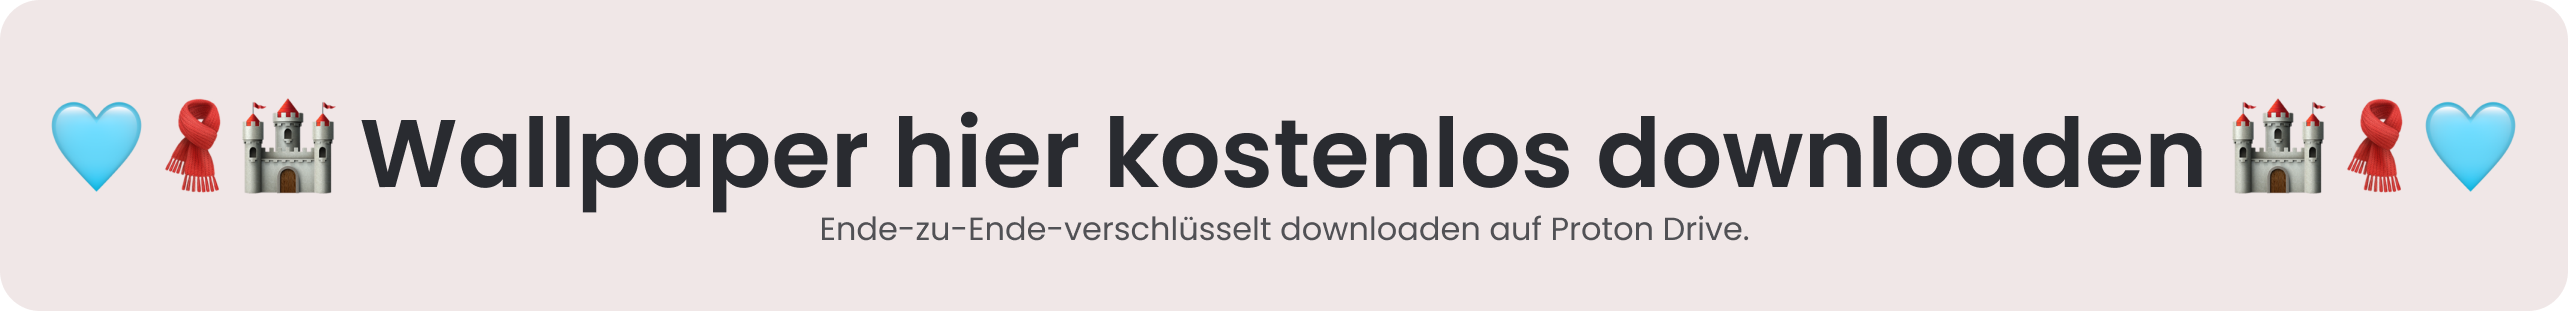
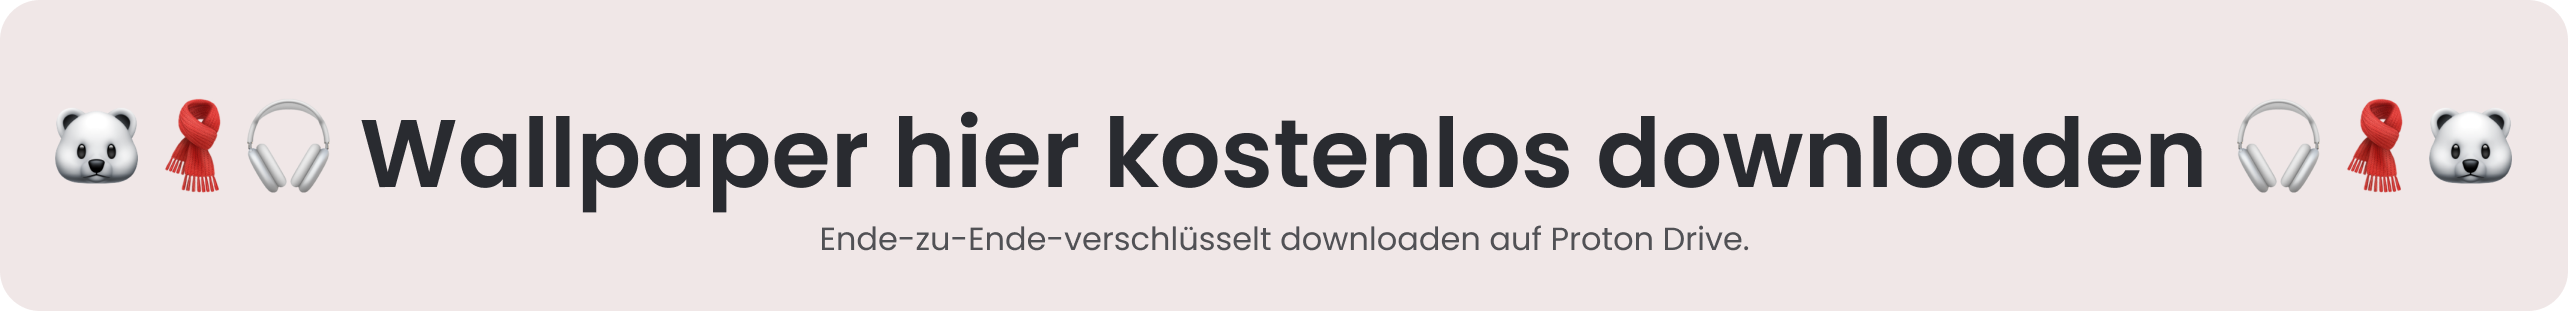
02_2025

diff --git a/README.md b/README.md
@@ -1,15 +1,14 @@
 <p align="center">
-  <img src="Assets/Wallpaper_Cover.jpg" alt="Wallpaper Cover" width="">
+  <img src="Assets/12_2025_Wallpaper.jpg" alt="Okotber 2025 Wallpaper Titel" width="">
 </p>
 
-# Januar Release – Ein gemütlicher Start ins neue Jahr ✨📖
+# Februar Release – Winterliche Gemütlichkeit für deinen Bildschirm ❄🐻❄
 
-## 🖼 Januar 2025 Wallpaper
+## 🖼 Februar 2025 Wallpaper
+🇩🇪
+Der Februar bringt kühle Wintervibes und gemütliche Atmosphäre direkt auf deinen Bildschirm. 🌊💙 Die neuen Wallpaper tauchen deinen Desktop oder dein Handy in sanfte Blautöne und winterlichen Charme. ❄✨
 
-🇩🇪 
-Der Januar läutet ein neues Kapitel ein – Zeit für frische Anfänge und klare Ziele. 🌟🍵 Die neuen Wallpaper bringen dir die Wärme von Hogwarts und die gemütliche Stimmung des Winters direkt auf deinen Bildschirm. 🏰✨
-
-Lass dich von den magischen Bildern inspirieren und starte das Jahr mit Fokus und Ruhe. Wähle dein Lieblings-Wallpaper und setze Prioritäten mit Stil und Zauber! 🖥📱
+Lass dich von einem süßen schwimmenden Eisbären inspirieren und schaffe dir eine ruhige, fokussierte Arbeitsumgebung. 🧣🎧 Hol dir die neuen Wallpaper und genieße die kalte Schönheit des Winters mit einem Hauch von Gemütlichkeit. 🖥📱
 
 [⏬💗Wallpaper Vorschau](#wallpaper)<br><br>[⏬🇺🇸English below](#english) <br>
 
@@ -27,7 +26,7 @@ Bitte beachte, dass die Nutzung der Bilder ausschließlich für die privatenutzu
 2. Entweder bestimmtes Wallpaper oder Ordner downloaden.
 3. Entpacke die ZIP-Datei und verwende die enthaltenen Bilder als Hintergrund auf deinen Geräten.
 
-Eine kurze Anleitung zum Downloaden findest du hier: [YouTube Tutorial](https://www.youtube.com/watch?v=GVzCxlLNx2Q&list=PLLoxSdp_j-L1shpKRpgo8UCbjiNiIMjk3) 
+Eine kurze Anleitung zum Downloaden findest du hier: [YouTube Tutorial](https://www.youtube.com/@thisisnicollo) 
 
 <p align="center">
   <img src="Assets/Bild-2.jpg" width="33%" />
@@ -53,12 +52,12 @@ Die folgenden Vorschaubilder sind für Desktop, Samrtphone und Tablet erhältlic
 [⏬💗Wallpaper Vorschau](#wallpaper)
 
 
-# 🖼 January 2025 Wallpaper
+# 🖼 February 2025 Wallpaper
 
 🇺🇸
-January is the start of a new chapter - a time for new beginnings and clear goals. 🌟🍵 The new wallpapers bring the warmth of Hogwarts and the cozy atmosphere of winter straight to your desktop. 🏰✨
+February is the perfect month to bring some winter vibes and a cosy atmosphere straight to your screen. 🌊💙 The new wallpapers are here, and they're like a warm hug for your desktop or mobile phone, with their soft blue tones and wintry charm. ❄✨
 
-Be inspired by the magical images and start the year with focus and calm. Choose your favourite wallpaper and set your goals with style and magic! 🖥📱
+We've got a cute swimming polar bear to inspire you, so you can create a calm and focused working environment. 🧣🎧 Get the new wallpapers and enjoy the cold beauty of winter with a touch of cosiness. 🖥📱
 
 <br>
 <p align="left">
@@ -76,7 +75,7 @@ Please note that the use of the images is strictly for personal use only. Any co
 2. download either specific wallpaper or folder.
 3. unzip the ZIP file and use the contained images as wallpaper on your devices.
 
-You can find a short download guide here: [YouTube Tutorial](https://www.youtube.com/watch?v=GVzCxlLNx2Q&list=PLLoxSdp_j-L1shpKRpgo8UCbjiNiIMjk3) 
+You can find a short download guide here: [YouTube Tutorial](https://www.youtube.com/@thisisnicollo) 
 
 ## 📄 Disclaimer
 Logos and trademarks in these wallpapers belong to their respective owners. I want to make it clear that I do not claim any rights or ownership over them. The images were created using AI and are based on my creative vision. These wallpapers are perfect to beautify your desktop, tablet or phone. 🙏 
@@ -104,25 +103,10 @@ The Wallpapers are available for desktop, phone and tablet. The calendars are av
   <img src="Deutsch/Desktop/03_Desktop_DE.jpg" width="46%" />
   <img src="Deutsch/Desktop/04_Desktop_DE.jpg" width="46%" />
   <img src="Deutsch/Desktop/05_Desktop_DE.jpg" width="46%" />
-  <img src="Deutsch/Desktop/05_Desktop_DE.jpg" width="46%" />
   <img src="Deutsch/Desktop/06_Desktop_DE.jpg" width="46%" />
   <img src="Deutsch/Desktop/07_Desktop_DE.jpg" width="46%" />
   <img src="Deutsch/Desktop/08_Desktop_DE.jpg" width="46%" />
-  <img src="Deutsch/Desktop/09_Desktop_DE.jpg" width="46%" />
-  <img src="Deutsch/Desktop/10_Desktop_DE.jpg" width="46%" />
-  <img src="Deutsch/Desktop/11_Desktop_DE.jpg" width="46%" />
-  <img src="Deutsch/Desktop/12_Desktop_DE.jpg" width="46%" />
-  <img src="Deutsch/Desktop/13_Desktop_DE.jpg" width="46%" />
-  <img src="Deutsch/Desktop/14_Desktop_DE.jpg" width="46%" />
-  <img src="Deutsch/Desktop/15_Desktop_DE.jpg" width="46%" />
-  <img src="Deutsch/Desktop/16_Desktop_DE.jpg" width="46%" />
-  <img src="Deutsch/Desktop/17_Desktop_DE.jpg" width="46%" />
-  <img src="Deutsch/Desktop/18_Desktop_DE.jpg" width="46%" />
-  <img src="Deutsch/Desktop/19_Desktop_DE.jpg" width="46%" />
-  <img src="Deutsch/Desktop/20_Desktop_DE.jpg" width="46%" />
-  <img src="Deutsch/Desktop/21_Desktop_DE.jpg" width="46%" />
-  <img src="Deutsch/Desktop/22_Desktop_DE.jpg" width="46%" />
-  </p>
+</p>
 
 #### 🇺🇸 English
 <p align="English">
@@ -131,24 +115,9 @@ The Wallpapers are available for desktop, phone and tablet. The calendars are av
   <img src="English/Desktop/03_Desktop_EN.jpg" width="46%" />
   <img src="English/Desktop/04_Desktop_EN.jpg" width="46%" />
   <img src="English/Desktop/05_Desktop_EN.jpg" width="46%" />
-  <img src="English/Desktop/05_Desktop_EN.jpg" width="46%" />
   <img src="English/Desktop/06_Desktop_EN.jpg" width="46%" />
   <img src="English/Desktop/07_Desktop_EN.jpg" width="46%" />
   <img src="English/Desktop/08_Desktop_EN.jpg" width="46%" />
-  <img src="English/Desktop/09_Desktop_EN.jpg" width="46%" />
-  <img src="English/Desktop/10_Desktop_EN.jpg" width="46%" />
-  <img src="English/Desktop/11_Desktop_EN.jpg" width="46%" />
-  <img src="English/Desktop/12_Desktop_EN.jpg" width="46%" />
-  <img src="English/Desktop/13_Desktop_EN.jpg" width="46%" />
-  <img src="English/Desktop/14_Desktop_EN.jpg" width="46%" />
-  <img src="English/Desktop/15_Desktop_EN.jpg" width="46%" />
-  <img src="English/Desktop/16_Desktop_EN.jpg" width="46%" />
-  <img src="English/Desktop/17_Desktop_EN.jpg" width="46%" />
-  <img src="English/Desktop/18_Desktop_EN.jpg" width="46%" />
-  <img src="English/Desktop/19_Desktop_EN.jpg" width="46%" />
-  <img src="English/Desktop/20_Desktop_EN.jpg" width="46%" />
-  <img src="English/Desktop/21_Desktop_EN.jpg" width="46%" />
-  <img src="English/Desktop/22_Desktop_EN.jpg" width="46%" />
 </p>
 
 ### 📱 Phone
@@ -160,20 +129,9 @@ The Wallpapers are available for desktop, phone and tablet. The calendars are av
   <img src="Deutsch/Phone/03_Phone_DE.jpg" width="46%" />
   <img src="Deutsch/Phone/04_Phone_DE.jpg" width="46%" />
   <img src="Deutsch/Phone/05_Phone_DE.jpg" width="46%" />
-  <img src="Deutsch/Phone/05_Phone_DE.jpg" width="46%" />
   <img src="Deutsch/Phone/06_Phone_DE.jpg" width="46%" />
   <img src="Deutsch/Phone/07_Phone_DE.jpg" width="46%" />
   <img src="Deutsch/Phone/08_Phone_DE.jpg" width="46%" />
-  <img src="Deutsch/Phone/09_Phone_DE.jpg" width="46%" />
-  <img src="Deutsch/Phone/10_Phone_DE.jpg" width="46%" />
-  <img src="Deutsch/Phone/11_Phone_DE.jpg" width="46%" />
-  <img src="Deutsch/Phone/12_Phone_DE.jpg" width="46%" />
-  <img src="Deutsch/Phone/13_Phone_DE.jpg" width="46%" />
-  <img src="Deutsch/Phone/14_Phone_DE.jpg" width="46%" />
-  <img src="Deutsch/Phone/15_Phone_DE.jpg" width="46%" />
-  <img src="Deutsch/Phone/16_Phone_DE.jpg" width="46%" />
-  <img src="Deutsch/Phone/17_Phone_DE.jpg" width="46%" />
-  <img src="Deutsch/Phone/18_Phone_DE.jpg" width="46%" />
 </p>
 
 #### 🇺🇸 English
@@ -183,20 +141,9 @@ The Wallpapers are available for desktop, phone and tablet. The calendars are av
   <img src="English/Phone/03_Phone_EN.jpg" width="46%" />
   <img src="English/Phone/04_Phone_EN.jpg" width="46%" />
   <img src="English/Phone/05_Phone_EN.jpg" width="46%" />
-  <img src="English/Phone/05_Phone_EN.jpg" width="46%" />
   <img src="English/Phone/06_Phone_EN.jpg" width="46%" />
   <img src="English/Phone/07_Phone_EN.jpg" width="46%" />
   <img src="English/Phone/08_Phone_EN.jpg" width="46%" />
-  <img src="English/Phone/09_Phone_EN.jpg" width="46%" />
-  <img src="English/Phone/10_Phone_EN.jpg" width="46%" />
-  <img src="English/Phone/11_Phone_EN.jpg" width="46%" />
-  <img src="English/Phone/12_Phone_EN.jpg" width="46%" />
-  <img src="English/Phone/13_Phone_EN.jpg" width="46%" />
-  <img src="English/Phone/14_Phone_EN.jpg" width="46%" />
-  <img src="English/Phone/15_Phone_EN.jpg" width="46%" />
-  <img src="English/Phone/16_Phone_EN.jpg" width="46%" />
-  <img src="English/Phone/17_Phone_EN.jpg" width="46%" />
-  <img src="English/Phone/18_Phone_EN.jpg" width="46%" />
 </p>
 
 ### 📱 Tablet
@@ -208,20 +155,9 @@ The Wallpapers are available for desktop, phone and tablet. The calendars are av
   <img src="Deutsch/Tablet/03_Tablet_DE.jpg" width="46%" />
   <img src="Deutsch/Tablet/04_Tablet_DE.jpg" width="46%" />
   <img src="Deutsch/Tablet/05_Tablet_DE.jpg" width="46%" />
-  <img src="Deutsch/Tablet/05_Tablet_DE.jpg" width="46%" />
   <img src="Deutsch/Tablet/06_Tablet_DE.jpg" width="46%" />
   <img src="Deutsch/Tablet/07_Tablet_DE.jpg" width="46%" />
   <img src="Deutsch/Tablet/08_Tablet_DE.jpg" width="46%" />
-  <img src="Deutsch/Tablet/09_Tablet_DE.jpg" width="46%" />
-  <img src="Deutsch/Tablet/10_Tablet_DE.jpg" width="46%" />
-  <img src="Deutsch/Tablet/11_Tablet_DE.jpg" width="46%" />
-  <img src="Deutsch/Tablet/12_Tablet_DE.jpg" width="46%" />
-  <img src="Deutsch/Tablet/13_Tablet_DE.jpg" width="46%" />
-  <img src="Deutsch/Tablet/14_Tablet_DE.jpg" width="46%" />
-  <img src="Deutsch/Tablet/15_Tablet_DE.jpg" width="46%" />
-  <img src="Deutsch/Tablet/16_Tablet_DE.jpg" width="46%" />
-  <img src="Deutsch/Tablet/17_Tablet_DE.jpg" width="46%" />
-  <img src="Deutsch/Tablet/18_Tablet_DE.jpg" width="46%" />
 </p>
 
 #### 🇺🇸 English
@@ -231,18 +167,7 @@ The Wallpapers are available for desktop, phone and tablet. The calendars are av
   <img src="English/Tablet/03_Tablet_EN.jpg" width="46%" />
   <img src="English/Tablet/04_Tablet_EN.jpg" width="46%" />
   <img src="English/Tablet/05_Tablet_EN.jpg" width="46%" />
-  <img src="English/Tablet/05_Tablet_EN.jpg" width="46%" />
   <img src="English/Tablet/06_Tablet_EN.jpg" width="46%" />
   <img src="English/Tablet/07_Tablet_EN.jpg" width="46%" />
   <img src="English/Tablet/08_Tablet_EN.jpg" width="46%" />
-  <img src="English/Tablet/09_Tablet_EN.jpg" width="46%" />
-  <img src="English/Tablet/10_Tablet_EN.jpg" width="46%" />
-  <img src="English/Tablet/11_Tablet_EN.jpg" width="46%" />
-  <img src="English/Tablet/12_Tablet_EN.jpg" width="46%" />
-  <img src="English/Tablet/13_Tablet_EN.jpg" width="46%" />
-  <img src="English/Tablet/14_Tablet_EN.jpg" width="46%" />
-  <img src="English/Tablet/15_Tablet_EN.jpg" width="46%" />
-  <img src="English/Tablet/16_Tablet_EN.jpg" width="46%" />
-  <img src="English/Tablet/17_Tablet_EN.jpg" width="46%" />
-  <img src="English/Tablet/18_Tablet_EN.jpg" width="46%" />
 </p>
